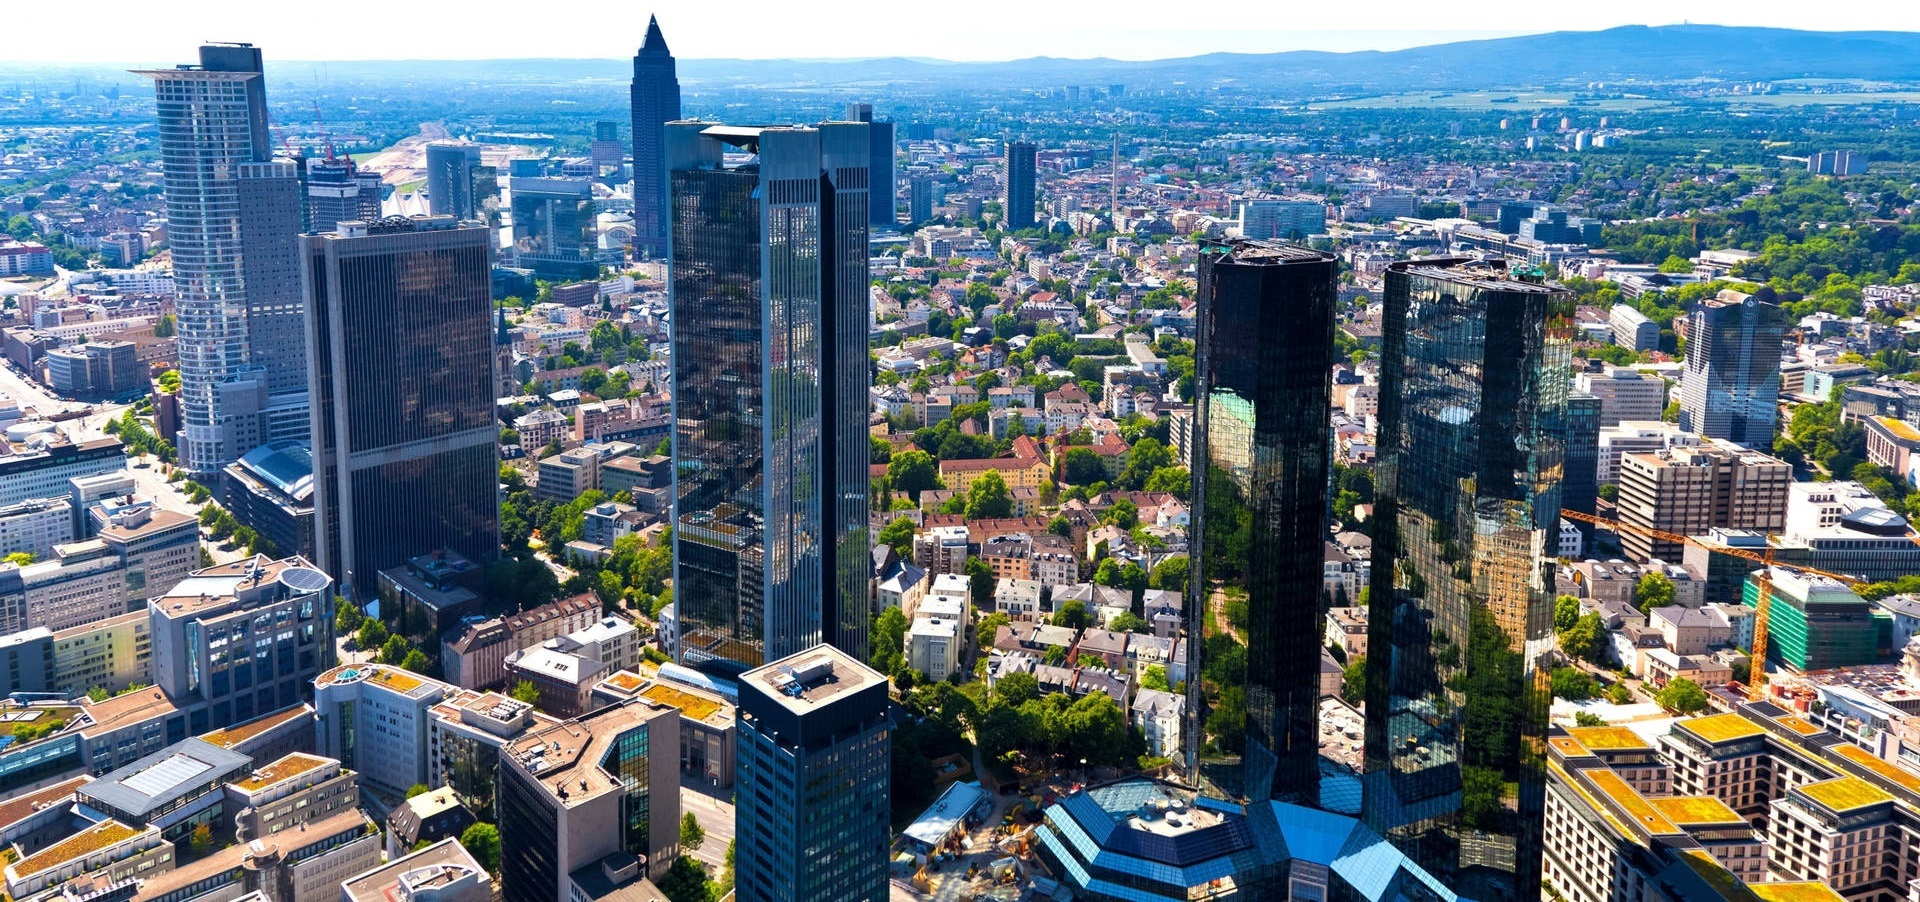
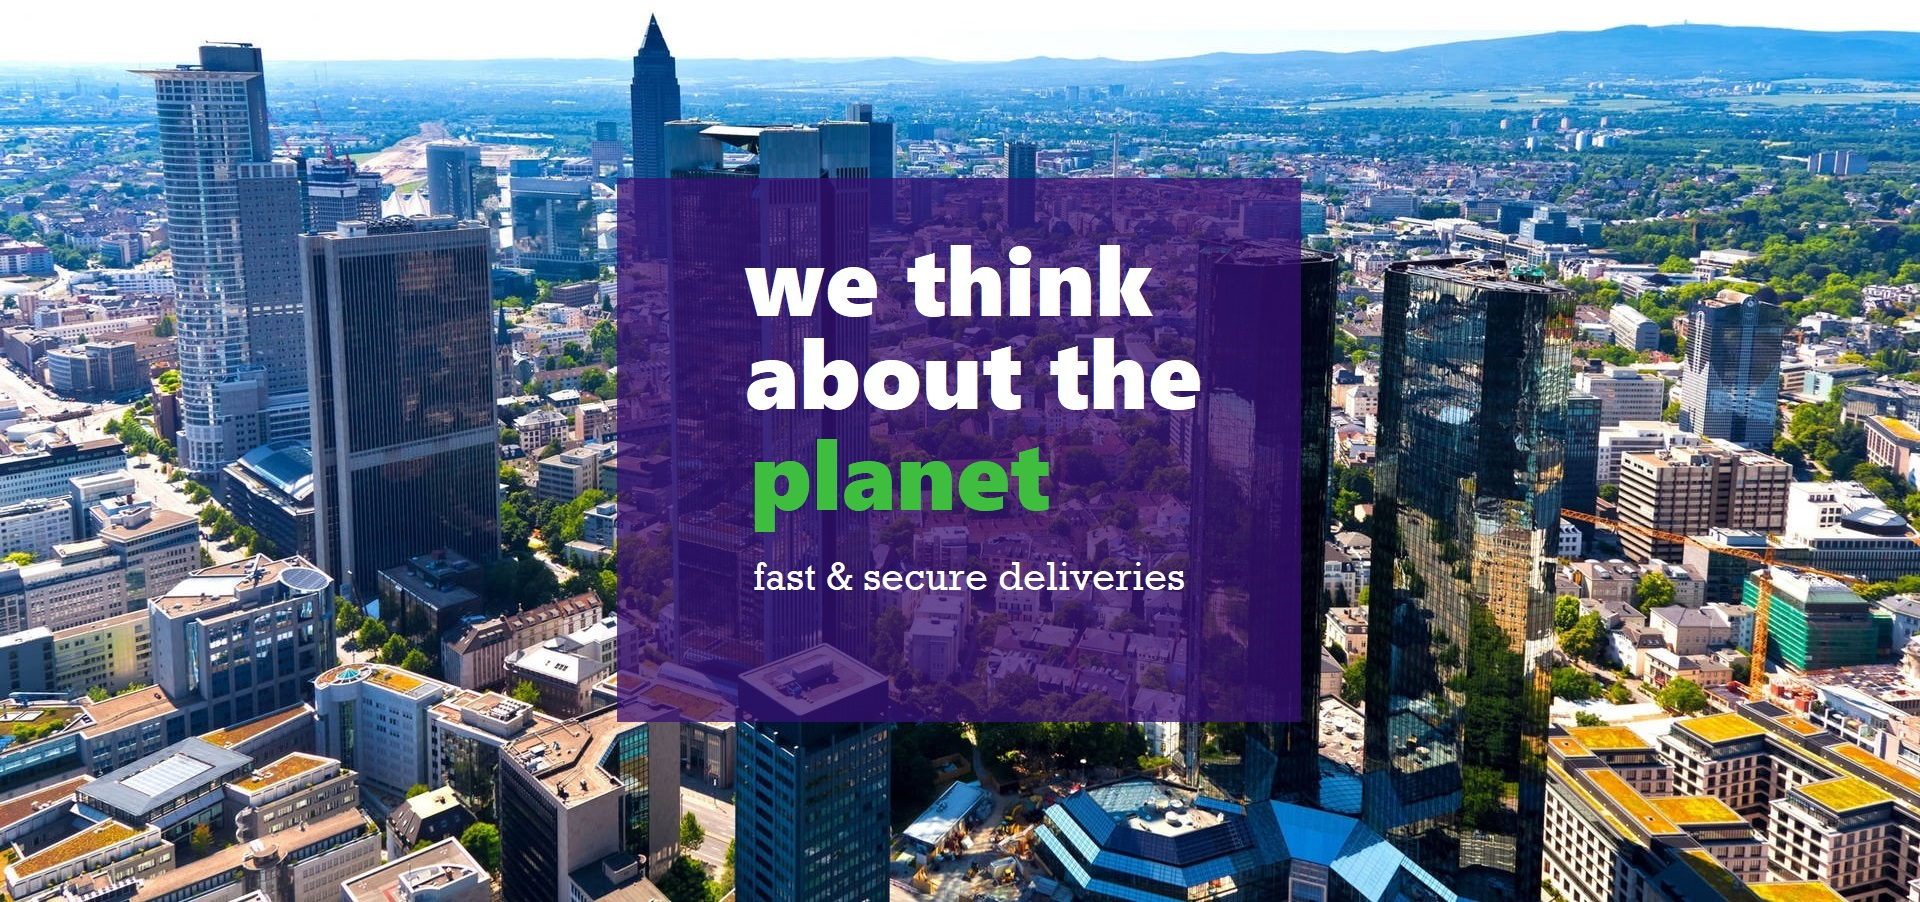
zoombie

Changed region(s): [[0.3125, 0.1863, 0.6875, 0.8071]]

diff --git a/web_dev/styles.css b/web_dev/styles.css
@@ -13,6 +13,7 @@ ul.home_properties {
     position: relative;
     top: 135px;
     margin-right: 10px;
+    font-size: smaller;
 }
 
 ul.home_properties li {
@@ -52,14 +53,14 @@ div.body_00 {
     top: -60px;
     background-image: url(image_city.jpg);
     background-size: 100%;
-    padding: 15%;
+    padding: 450px;
 }
 div.body_01 {
     position:relative;
-    top: -60px;
+    top: -100px;
     background-color: rgb(55, 15, 115);
-    padding-left: 200px;
-    padding-right: 200px;
+    padding-left: 600px;
+    padding-right: 600px;
     padding-top: 40px;
     padding-bottom: 40px;
     color: white;
